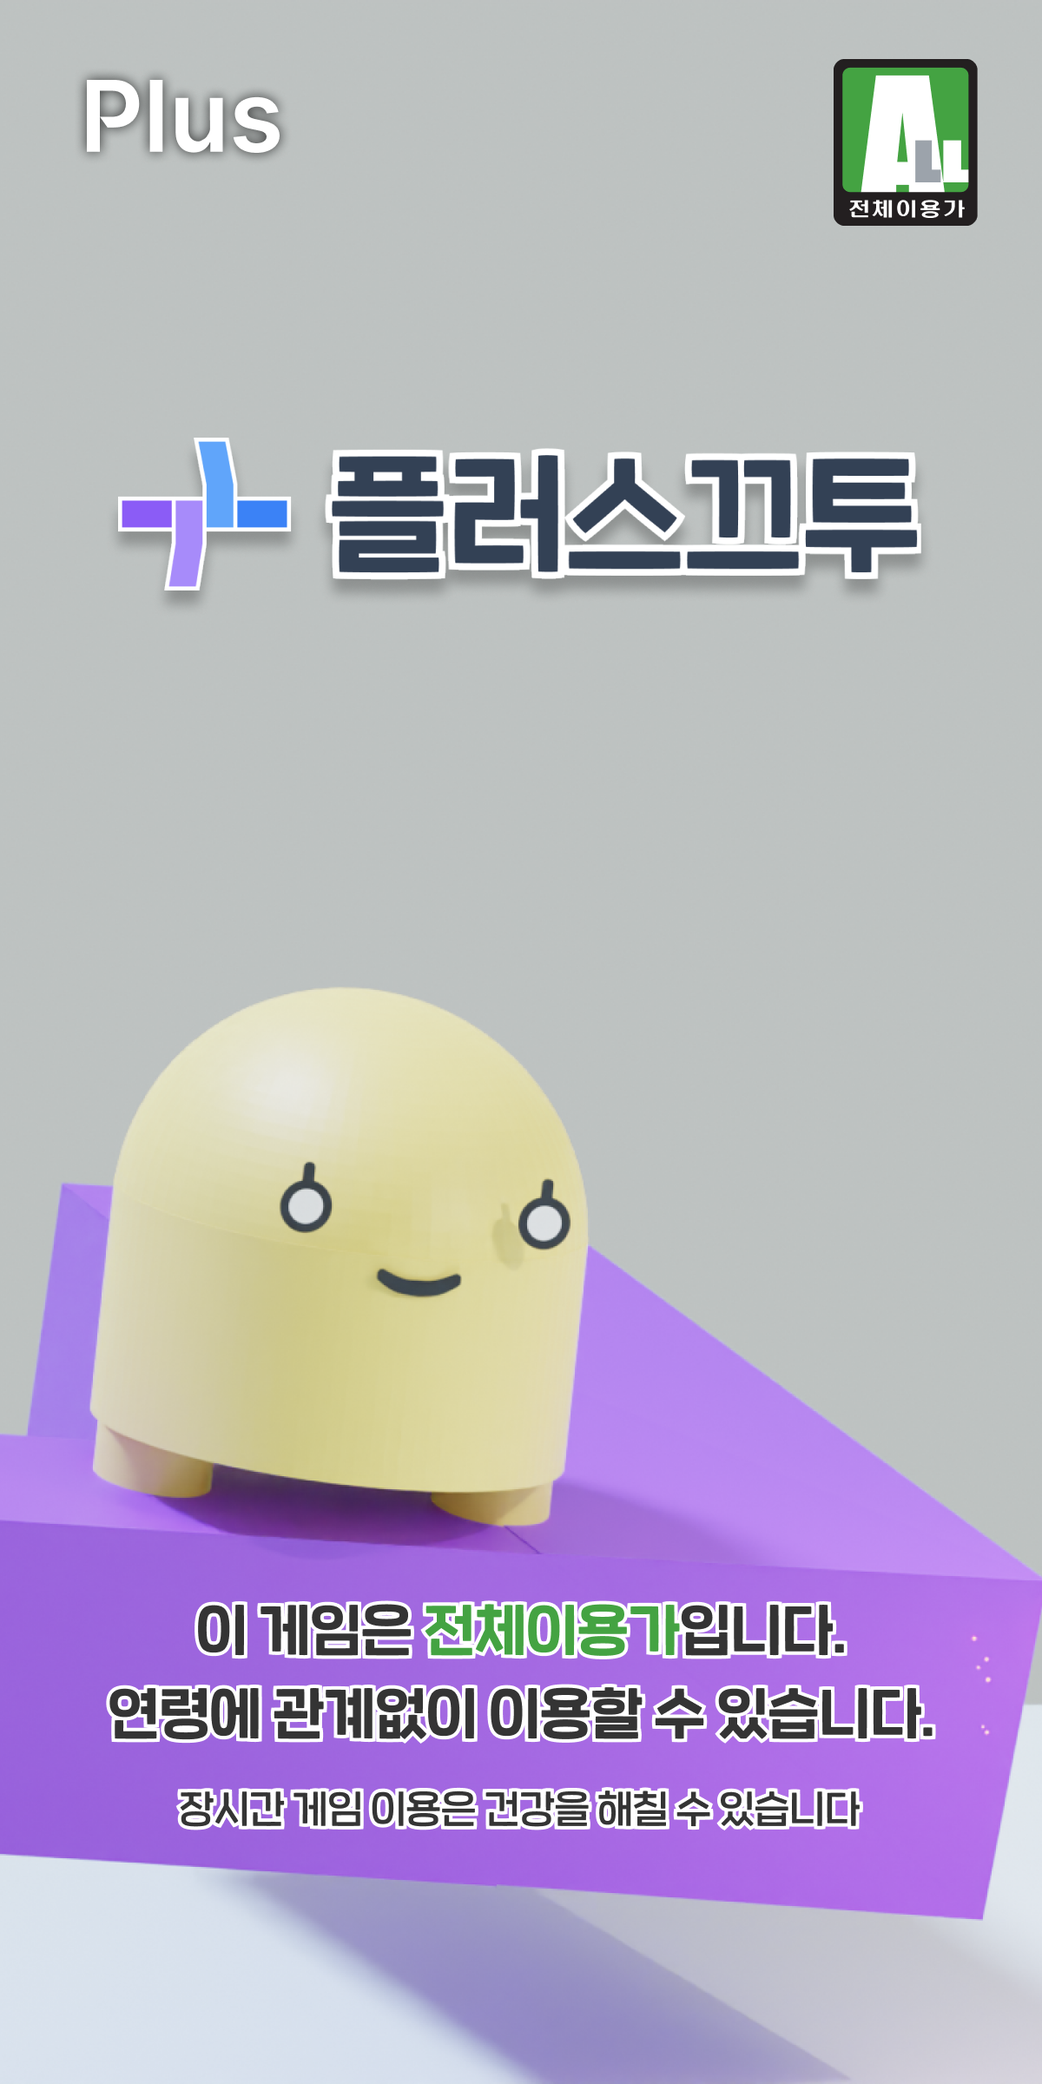
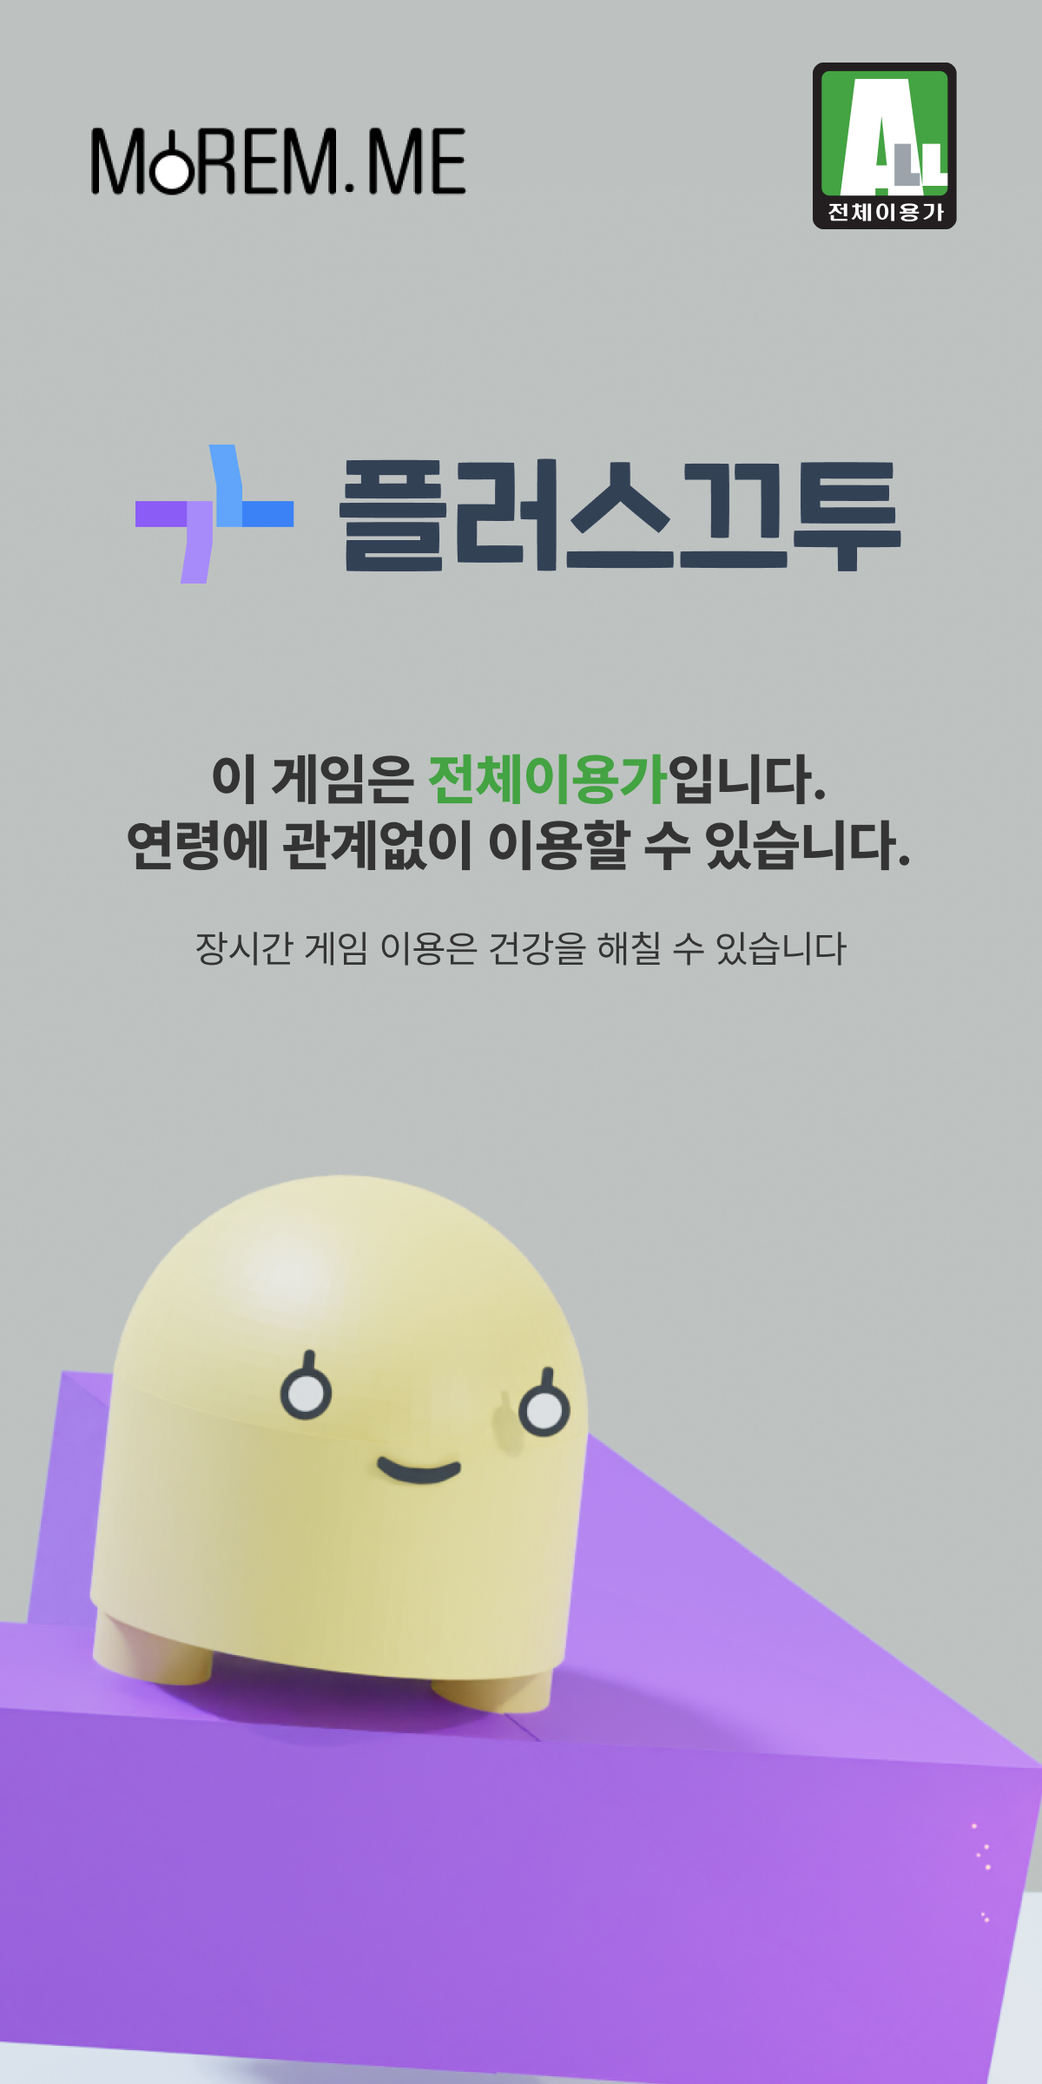
로고 변경

diff --git a/Server/lib/Web/public/index.html b/Server/lib/Web/public/index.html
@@ -14,19 +14,19 @@
 			<meta name="keywords" content="끄투, kkutu, 플러스끄투, 두근두근, 끝말잇기, 앞말잇기, 십자말풀이, 웹, 쿵쿵따, 영어끝말잇기, 영어쿵쿵따, 끝말잇기사이트, 자음퀴즈, 초성퀴즈, 그림퀴즈, 십자말풀이, 가로세로, 타자, 타자연습, 앞말잇기" class="s-y_bCXRrkrYfP"><meta name="description" content="플러스끄투에서 끝말잇기, 쿵쿵따와 같은 온라인 단어 게임을 즐겨보세요." class="s-y_bCXRrkrYfP"><meta name="publisher" content="Plus" class="s-y_bCXRrkrYfP"><meta property="og:title" content="플러스끄투" class="s-y_bCXRrkrYfP"><meta property="og:description" content="플러스끄투에서 끝말잇기, 쿵쿵따와 같은 온라인 단어 게임을 즐겨보세요." class="s-y_bCXRrkrYfP"><meta property="og:url" content="https://kkutu.cc" class="s-y_bCXRrkrYfP"><meta property="og:site_name" content="플러스끄투" class="s-y_bCXRrkrYfP"><meta property="og:type" content="website" class="s-y_bCXRrkrYfP"><meta property="og:image" content="https://kkutu.cc/img/kkutu/og.png" class="s-y_bCXRrkrYfP"><meta property="og:image:width" content="1200" class="s-y_bCXRrkrYfP"><meta property="og:image:height" content="630" class="s-y_bCXRrkrYfP"><meta property="og:locale" content="ko-KR" class="s-y_bCXRrkrYfP"><meta name="twitter:card" content="summary_large_image" class="s-y_bCXRrkrYfP"><meta name="twitter:site" content="kkutu.cc" class="s-y_bCXRrkrYfP"><meta name="twitter:title" content="플러스끄투" class="s-y_bCXRrkrYfP"><meta name="twitter:description" content="플러스끄투에서 끝말잇기, 쿵쿵따와 같은 온라인 단어 게임을 즐겨보세요." class="s-y_bCXRrkrYfP"><meta name="twitter:image" content="https://kkutu.cc/img/kkutu/og.png" class="s-y_bCXRrkrYfP">
 		
 		<link href="./_app/immutable/assets/0.JW-QwNiO.css" rel="stylesheet">
-		<link rel="modulepreload" href="./_app/immutable/entry/start.UuSkx6qy.js">
-		<link rel="modulepreload" href="./_app/immutable/chunks/entry.bgrFhcAc.js">
+		<link rel="modulepreload" href="./_app/immutable/entry/start.WO1FqB_S.js">
+		<link rel="modulepreload" href="./_app/immutable/chunks/entry.Fr7aC1Qt.js">
 		<link rel="modulepreload" href="./_app/immutable/chunks/scheduler.S4wXxuDW.js">
-		<link rel="modulepreload" href="./_app/immutable/entry/app.DvmlYpKn.js">
+		<link rel="modulepreload" href="./_app/immutable/entry/app.Ag0u90Iu.js">
 		<link rel="modulepreload" href="./_app/immutable/chunks/index.2QJJeQOn.js">
-		<link rel="modulepreload" href="./_app/immutable/nodes/0.hXJKph1n.js">
+		<link rel="modulepreload" href="./_app/immutable/nodes/0.rFQGy8i8.js">
 		<link rel="modulepreload" href="./_app/immutable/nodes/2.e6VDg0p2.js"><title>플러스끄투 - 혼자도 같이도 즐거운 온라인 단어 게임</title><!-- HEAD_svelte-j0c1yx_START --><!-- HEAD_svelte-j0c1yx_END -->
 	</head>
 	<body data-sveltekit-preload-data="hover">
 		<div style="display: contents">  <div class="app"><header class="top-0 lg:top-[20px] absolute py-4 lg:py-0 w-full z-10" data-svelte-h="svelte-8oratq"><nav class="max-w-screen-xl mx-auto flex items-center justify-between px-4 lg:px-8 lg:py-0" aria-label="Global"><div class="flex lg:flex-1"><a href="/"><button class="-m-1.5 p-1.5 md:flex"><span class="sr-only">플러스끄투</span><img class="h-6" src="/img/logo_dark.png" alt=""></button></a></div> <div class="hidden py-4 lg:flex text-white"><a href="https://cafe.naver.com/pluskkutu" class="mr-6 text-xl flex rounded-xl py-2 px-2 transform ease-in duration-100 active:scale-95 hover:backdrop-blur-lg hover:bg-white/20">카페</a> <a href="https://discord.gg/5b8kNZJawd" class="mr-6 text-xl flex rounded-xl py-2 px-2 transform ease-in duration-100 active:scale-95 hover:backdrop-blur-lg hover:bg-white/20">디스코드</a> <a href="https://kkutu.cc/login" class="mr-6 text-xl flex rounded-xl py-2 px-2 transform ease-in duration-100 active:scale-95 hover:backdrop-blur-lg hover:bg-white/20">로그인</a></div> <div class="lg:hidden flex flex-1 justify-end"><div><a href="https://kkutu.cc/game?server=0" class="flex items-center justify-center text-white text-lg lg:text-3xl h-full px-2 lg:py-4 lg:px-12 transform ease-in duration-100 active:scale-95 bg-white/20" style="transform: skew(-10deg);"><span class="font-bold tracking-wide">게임시작</span></a></div></div></nav></header> <main> <div class="dark:bg-gray-900 dark:text-white"><section class="relative isolate bg-gray-800 w-full flex flex-col"><div class="absolute inset-x-0 -top-40 -z-10 transform-gpu overflow-hidden blur-3xl sm:-top-80" aria-hidden="true" data-svelte-h="svelte-mdabbr"><div class="relative left-[calc(50%-11rem)] aspect-[1155/678] w-[36.125rem] -translate-x-1/2 rotate-[30deg] bg-gradient-to-tr from-purple-500 to-purple-700 opacity-30 sm:left-[calc(50%-30rem)] sm:w-[72.1875rem]" style="clip-path: polygon(74.1% 44.1%, 100% 61.6%, 97.5% 26.9%, 85.5% 0.1%, 80.7% 2%, 72.5% 32.5%, 60.2% 62.4%, 52.4% 68.1%, 47.5% 58.3%, 45.2% 34.5%, 27.5% 76.7%, 0.1% 64.9%, 17.9% 100%, 27.6% 76.8%, 76.1% 97.7%, 74.1% 44.1%)"></div></div> <div class="py-32 sm:py-48 lg:py-56"><div class="mx-auto max-w-screen-2xl container px-4 md:px-6"><div class="justify-center flex flex-col items-center"><h1 class="text-gray-300 text-center text-3xl lg:text-8xl font-bold text-black sm:text-4xl md:text-5xl lg:text-6xl" data-svelte-h="svelte-74bxen">끄투의 미래,<br>
             지금 <span class="text-white">플러스끄투</span>에서.</h1> <p class="text-white mt-8 text-center sm:text-4xl text-black" data-svelte-h="svelte-4zlc5w">끄투의 틀에서 탈피한 아케이드 모드를 만나보세요.</p> <div class="mx-auto gb" data-svelte-h="svelte-xnpra9"> <div class="layer absolute top-0 left-0 w-full h-full bg-layer2 z-10 flex justify-center items-center"><img src="/img/web/2024Renewal/Layer2.png" alt="레이어"></div>  <div class="layer absolute top-0 left-0 w-full h-full bg-layer3 z-20 flex justify-center items-center"><img src="/img/web/2024Renewal/Layer3.png" alt="레이어"></div>  <div class="layer absolute top-0 left-0 w-full h-full bg-layer4 z-30 flex justify-center items-center"><img src="/img/web/2024Renewal/Layer4.png" alt="레이어"></div></div> <a class="mt-16 bg-white rounded-full text-gray-800 shadow-lg px-8 py-2 font-bold text-3xl" href="https://kkutu.cc/game?server=0" data-svelte-h="svelte-1bmg5g1">시작하기</a> <a class="download-link mt-4 hidden lg:flex inline-flex text-lg px-4 py-2 text-white" href="#" data-svelte-h="svelte-1rv4ung">클라이언트 다운로드</a></div></div></div></section> <div class="modal"><div class="modal-content"><button class="modal-close text-2xl text-gray-500" data-svelte-h="svelte-1l2t0vo">×</button> <h3 class="text-3xl font-bold text-center dark:text-black" data-svelte-h="svelte-91w1n5">클라이언트는 지금 개편 중!</h3> <p class="text-gray-500 text-center" data-svelte-h="svelte-1n3ubbe">언제, 어디서나 즐긴다!<br>Windows, macOS, Linux, iOS, Android 크로스 플레이를 지원하는<br>새로운 클라이언트를 개발 중에 있습니다.
-    <br><br>개발 완료 전까진 구 버전의 클라이언트를 이용할 수 있습니다.</p> <div class="px-4 w-full" data-svelte-h="svelte-f4e07j"><a href="https://github.com/Plus-Platforms/KKuTu/releases/download/1.0.0/install-1.0.0.exe"><button class="mt-3 px-3 w-full bg-blue-500 font-bold text-white text-center m-auto py-2 transform ease-in duration-100 active:scale-95 hover:bg-blue-700">2024/02/01 클라이언트 다운로드</button></a> <p class="text-gray-500 text-center">1.0.0 수정사항 : Discord RPC 기능 추가</p></div> <div class="px-4 justify-center flex items-center" data-svelte-h="svelte-epzfue"><a href="https://plus.oqupie.com/portal/2568/article/56598" target="_blank"><button class="mt-3 px-3 bg-gray-100 font-bold text-black text-center m-auto py-2 transform ease-in duration-100 active:scale-95 hover:bg-gray-300">사양 확인</button></a></div></div></div> <section class="max-w-screen-xl mx-auto my-10 p-4 md:grid md:grid-cols-2"><div><h2 class="text-3xl font-bold mb-4" data-svelte-h="svelte-1odxqdb">카페 이야기</h2> <p data-svelte-h="svelte-10jbbwx">불러오는 중</p></div> <div class="flex-col lg:ml-8 mt-8 lg:mt-0"><h2 class="text-3xl font-bold mb-4" data-svelte-h="svelte-ktfe62">채널 선택</h2> <div class="grid grid-cols-2 gap-4"><a href="https://kkutu.cc/game?server=0"><div class="rounded-xl bg-gray-100 text-gray-900 hover:bg-gray-200 dark:bg-gray-800 dark:text-gray-100 dark:hover:bg-gray-700 px-2 py-2 transform ease-in duration-100 active:scale-95"><h3 class="text-xl font-bold">감자 채널 <span class="font-normal text-gray-500 dark:text-gray-300">0 / 0</span></h3> <div class="bg-gray-500 h-2 mt-2"><div class="bg-blue-500 h-full" style="width: NaN%"></div> </div></div> </a></div></div></section>  <div class="bg-gray-100 dark:bg-gray-800 py-24 sm:py-32" data-svelte-h="svelte-e4ahd5"><div class="mx-auto max-w-7xl px-6 lg:px-8"><h2 class="text-center text-3xl font-bold text-gray-900 dark:text-gray-100">공식 SNS에서 만나요!</h2> <div class="max-w-lg mx-auto mt-16 grid grid-cols-3 gap-x-8 items-center jusitfy-center"><div class="flex items-center justify-center"><a href="https://cafe.naver.com/pluskkutu" target="_blank" class="px-4 py-4 rounded-full bg-white"><img class="col-span-2 max-h-8 w-8 object-contain lg:col-span-1" src="/img/cafe.png" alt="NaverCafe" width="48" height="48"></a></div> <div class="flex items-center justify-center"><a href="https://youtube.com/@pluskkutu" target="_blank" class="px-4 py-5 rounded-full bg-white"><img class="col-span-2 max-h-8 w-8 object-contain lg:col-span-1" src="/img/youtube.png" alt="YouTube" width="48" height="48"></a></div> <div class="flex items-center justify-center"><a href="https://discord.gg/5b8kNZJawd" target="_blank" class="px-4 py-5 rounded-full bg-white"><img class="col-span-2 max-h-8 w-8 object-contain lg:col-span-1" src="/img/discord.png" alt="Discord" width="48" height="48"></a></div></div></div></div> <section class="max-w-screen-xl mx-auto py-10 p-4 md:grid md:grid-cols-2"><div class="flex flex-col" data-svelte-h="svelte-dxgoya"><a href="https://cafe.naver.com/ArticleRead.nhn?clubid=31109813&page=1&menuid=7&boardtype=L&articleid=118&referrerAllArticles=false" target="_blank"><img src="/img/2404 업데이트배너.png" alt="2404업데이트배너"></a></div> <div class="mt-8 lg:mt-0"><h2 class="text-3xl font-bold mb-4" data-svelte-h="svelte-fh74qu">업데이트</h2> <p data-svelte-h="svelte-10jbbwx">불러오는 중</p></div></section></div></main> <footer class="p-4 bg-white sm:p-6 dark:bg-gray-800 " data-svelte-h="svelte-o8e19a"><div class="max-w-screen-xl mx-auto md:flex md:justify-between mb-6 mt-6"><div class=""><div class="flex items-center"><img src="/img/logo.png" class="dark:hidden h-10 mr-4" alt="Plus KKuTuLogo"> <img src="/img/logo_dark.png" class="hidden dark:block h-10 mr-4" alt="Plus KKuTuLogo"></div> <div class="text-sm text-gray-500 dark:text-gray-400 mt-4">서비스 문의 : support@kkutu.cc<br>
-        © 2023 ~ 2024 Team Plus KKuTu<br>
+    <br><br>개발 완료 전까진 구 버전의 클라이언트를 이용할 수 있습니다.</p> <div class="px-4 w-full" data-svelte-h="svelte-f4e07j"><a href="https://github.com/Plus-Platforms/KKuTu/releases/download/1.0.0/install-1.0.0.exe"><button class="mt-3 px-3 w-full bg-blue-500 font-bold text-white text-center m-auto py-2 transform ease-in duration-100 active:scale-95 hover:bg-blue-700">2024/02/01 클라이언트 다운로드</button></a> <p class="text-gray-500 text-center">1.0.0 수정사항 : Discord RPC 기능 추가</p></div> <div class="px-4 justify-center flex items-center" data-svelte-h="svelte-epzfue"><a href="https://plus.oqupie.com/portal/2568/article/56598" target="_blank"><button class="mt-3 px-3 bg-gray-100 font-bold text-black text-center m-auto py-2 transform ease-in duration-100 active:scale-95 hover:bg-gray-300">사양 확인</button></a></div></div></div> <section class="max-w-screen-xl mx-auto my-10 p-4 md:grid md:grid-cols-2"><div><h2 class="text-3xl font-bold mb-4" data-svelte-h="svelte-1odxqdb">카페 이야기</h2> <p data-svelte-h="svelte-10jbbwx">불러오는 중</p></div> <div class="flex-col lg:ml-8 mt-8 lg:mt-0"><h2 class="text-3xl font-bold mb-4" data-svelte-h="svelte-ktfe62">채널 선택</h2> <div class="grid grid-cols-2 gap-4"><a href="https://kkutu.cc/game?server=0"><div class="rounded-xl bg-gray-100 text-gray-900 hover:bg-gray-200 dark:bg-gray-800 dark:text-gray-100 dark:hover:bg-gray-700 px-2 py-2 transform ease-in duration-100 active:scale-95"><h3 class="text-xl font-bold">감자 채널 <span class="font-normal text-gray-500 dark:text-gray-300">0 / 0</span></h3> <div class="bg-gray-500 h-2 mt-2"><div class="bg-blue-500 h-full" style="width: NaN%"></div> </div></div> </a></div></div></section>  <div class="bg-gray-100 dark:bg-gray-800 py-24 sm:py-32" data-svelte-h="svelte-e4ahd5"><div class="mx-auto max-w-7xl px-6 lg:px-8"><h2 class="text-center text-3xl font-bold text-gray-900 dark:text-gray-100">공식 SNS에서 만나요!</h2> <div class="max-w-lg mx-auto mt-16 grid grid-cols-3 gap-x-8 items-center jusitfy-center"><div class="flex items-center justify-center"><a href="https://cafe.naver.com/pluskkutu" target="_blank" class="px-4 py-4 rounded-full bg-white"><img class="col-span-2 max-h-8 w-8 object-contain lg:col-span-1" src="/img/cafe.png" alt="NaverCafe" width="48" height="48"></a></div> <div class="flex items-center justify-center"><a href="https://youtube.com/@pluskkutu" target="_blank" class="px-4 py-5 rounded-full bg-white"><img class="col-span-2 max-h-8 w-8 object-contain lg:col-span-1" src="/img/youtube.png" alt="YouTube" width="48" height="48"></a></div> <div class="flex items-center justify-center"><a href="https://discord.gg/5b8kNZJawd" target="_blank" class="px-4 py-5 rounded-full bg-white"><img class="col-span-2 max-h-8 w-8 object-contain lg:col-span-1" src="/img/discord.png" alt="Discord" width="48" height="48"></a></div></div></div></div> <section class="max-w-screen-xl mx-auto py-10 p-4 md:grid md:grid-cols-2"><div class="flex flex-col" data-svelte-h="svelte-dxgoya"><a href="https://cafe.naver.com/ArticleRead.nhn?clubid=31109813&page=1&menuid=7&boardtype=L&articleid=118&referrerAllArticles=false" target="_blank"><img src="/img/2404 업데이트배너.png" alt="2404업데이트배너"></a></div> <div class="mt-8 lg:mt-0"><h2 class="text-3xl font-bold mb-4" data-svelte-h="svelte-fh74qu">업데이트</h2> <p data-svelte-h="svelte-10jbbwx">불러오는 중</p></div></section></div></main> <footer class="p-4 bg-white sm:p-6 dark:bg-gray-800 " data-svelte-h="svelte-hy9n60"><div class="max-w-screen-xl mx-auto md:flex md:justify-between mb-6 mt-6"><div class=""><div class="flex items-center"><img src="/img/kkutu/intro/moremme_light.svg" class="dark:hidden h-10 mr-4" alt="Morem.MELogo"> <img src="/img/kkutu/intro/moremme_dark.svg" class="hidden dark:block h-10 mr-4" alt="Morem.MELogo"></div> <div class="text-sm text-gray-500 dark:text-gray-400 mt-4">서비스 문의 : support@morem.me<br>
+        © 2023 ~ 2024 Morem.ME<br>
         확률형 아이템 포함<br> <a href="https://cafe.naver.com/ArticleRead.nhn?clubid=31109813&page=1&menuid=7&boardtype=L&articleid=109&referrerAllArticles=false" target="_blank"><span>이용 약관</span></a> |
       <a href="https://cafe.naver.com/ArticleRead.nhn?clubid=31109813&page=1&menuid=7&boardtype=L&articleid=110&referrerAllArticles=false" target="_blank"><span>개인정보처리방침</span></a> |
       <a href="https://cafe.naver.com/ArticleRead.nhn?clubid=31109813&page=1&menuid=7&boardtype=L&articleid=108&referrerAllArticles=false" target="_blank"><span>환불 정책</span></a> |
@@ -34,7 +34,7 @@
 			
 			<script>
 				{
-					__sveltekit_1n4rri6 = {
+					__sveltekit_5jzmtx = {
 						base: new URL(".", location).pathname.slice(0, -1)
 					};
 
@@ -43,8 +43,8 @@
 					const data = [null,null];
 
 					Promise.all([
-						import("./_app/immutable/entry/start.UuSkx6qy.js"),
-						import("./_app/immutable/entry/app.DvmlYpKn.js")
+						import("./_app/immutable/entry/start.WO1FqB_S.js"),
+						import("./_app/immutable/entry/app.Ag0u90Iu.js")
 					]).then(([kit, app]) => {
 						kit.start(app, element, {
 							node_ids: [0, 2],

diff --git a/neofront/static/ban.html b/neofront/static/ban.html
@@ -6,13 +6,13 @@
 <p>저희 플러스끄투는 채팅 정지와 이용자 정지로 제재를 구분하고 있습니다.</p>
 <p>그 중 이용자 정지가 되었을 때에만 본 창이 나타납니다.</p>
 <h2>제재된 이유를 알게 해주세요.</h2>
-<p>공식 디스코드 #제재이력, 공식 카페 (비정기적)로 안내드리고 있으며, 해당 채널로 접근이 어려우신 경우 고객센터 (support@kkutu.cc)로 문의주시면 친절히 답변 드리겠습니다.</p>
+<p>공식 디스코드 #제재이력, 공식 카페 (비정기적)로 안내드리고 있으며, 해당 채널로 접근이 어려우신 경우 고객센터 (support@morem.me)로 문의주시면 친절히 답변 드리겠습니다.</p>
 <p>단, 고객센터를 통한 제재이력 확인은 제재 시점으로부터 15일 이내에만 가능합니다.</p>
 <h2>해제 시점은 어떻게 알 수 있나요?</h2>
 <p>회원님의 제재 해제 시점은 <strong id="blockSpan"></strong>입니다.</p>
 <p>제재가 해제된 이후로는 제재 이력만 개인정보 처리방침에 의거 기록됩니다.</p>
 <h2>무고하게 밴 된 것 같습니다. 제재를 해제해주세요.</h2>
-<p>제재 관련 항소는 support@kkutu.cc로 주실 시 면밀히 검토해보겠습니다.</p>
+<p>제재 관련 항소는 support@morem.me로 주실 시 면밀히 검토해보겠습니다.</p>
 </div>
 <script>
 document.addEventListener("DOMContentLoaded",function(){const e=new URLSearchParams(window.location.search),t=e.get("block");t&&(document.getElementById("blockSpan").textContent=t)});

diff --git a/neofront/src/routes/Footer.svelte b/neofront/src/routes/Footer.svelte
@@ -3,13 +3,13 @@
   <div class="max-w-screen-xl mx-auto md:flex md:justify-between mb-6 mt-6">
     <div class="">
       <div class="flex items-center">
-        <img src="/img/logo.png" class="dark:hidden h-10 mr-4" alt="Plus KKuTuLogo"/>
-        <img src="/img/logo_dark.png" class="hidden dark:block h-10 mr-4" alt="Plus KKuTuLogo"/>
+        <img src="/img/kkutu/intro/moremme_light.svg" class="dark:hidden h-10 mr-4" alt="Morem.MELogo"/>
+        <img src="/img/kkutu/intro/moremme_dark.svg" class="hidden dark:block h-10 mr-4" alt="Morem.MELogo"/>
       </div>
 
       <div class="text-sm text-gray-500 dark:text-gray-400 mt-4">
-        서비스 문의 : support@kkutu.cc<br>
-        &copy; 2023 ~ 2024 Team Plus KKuTu<br>
+        서비스 문의 : support@morem.me<br>
+        &copy; 2023 ~ 2024 Morem.ME<br>
         확률형 아이템 포함<br>
       <a href="https://cafe.naver.com/ArticleRead.nhn?clubid=31109813&page=1&menuid=7&boardtype=L&articleid=109&referrerAllArticles=false" target='_blank'>
         <span>이용 약관</span></a> |

diff --git a/Server/lib/Web/public/global_notice.html b/Server/lib/Web/public/global_notice.html
@@ -1,1 +1,1 @@
-간헐적으로 로그인 장애가 발생할 수 있습니다. 로그인 장애 현상 발생 시 카페 및 디스코드에 문의부탁드립니다. 불편을 드려 죄송합니다.
+원인을 알 수 없는 로그인 장애가 지속적으로 발생중입니다. 로그인 장애 발생시 카페, 디스코드에 문의부탁드립니다.

diff --git a/neofront/static/global_notice.html b/neofront/static/global_notice.html
@@ -1,1 +1,1 @@
-간헐적으로 로그인 장애가 발생할 수 있습니다. 로그인 장애 현상 발생 시 카페 및 디스코드에 문의부탁드립니다. 불편을 드려 죄송합니다.
+원인을 알 수 없는 로그인 장애가 지속적으로 발생중입니다. 로그인 장애 발생시 카페, 디스코드에 문의부탁드립니다.

diff --git a/Server/lib/Web/public/css/in_kkutu.css b/Server/lib/Web/public/css/in_kkutu.css
@@ -207,7 +207,6 @@ equ{
     position: fixed;
     z-index: 4;
     width: 100vw;
-	background: #2f2f2f!important;
 	background-image: url(/img/kkutu/splash.png);
 	box-shadow: inset 0 0 5em 1em #000;
     background-position: center;

diff --git a/Server/lib/Web/main.js b/Server/lib/Web/main.js
@@ -86,7 +86,7 @@ Server.use((req, res, next) => {
 		delete req.session.passport;
 	}
 	
-	res.set("X-Powered-By", "Plus KKuTu");
+	res.set("X-Powered-By", "Morem.ME");
 	next();
 });
 Server.use((req, res, next) => {
